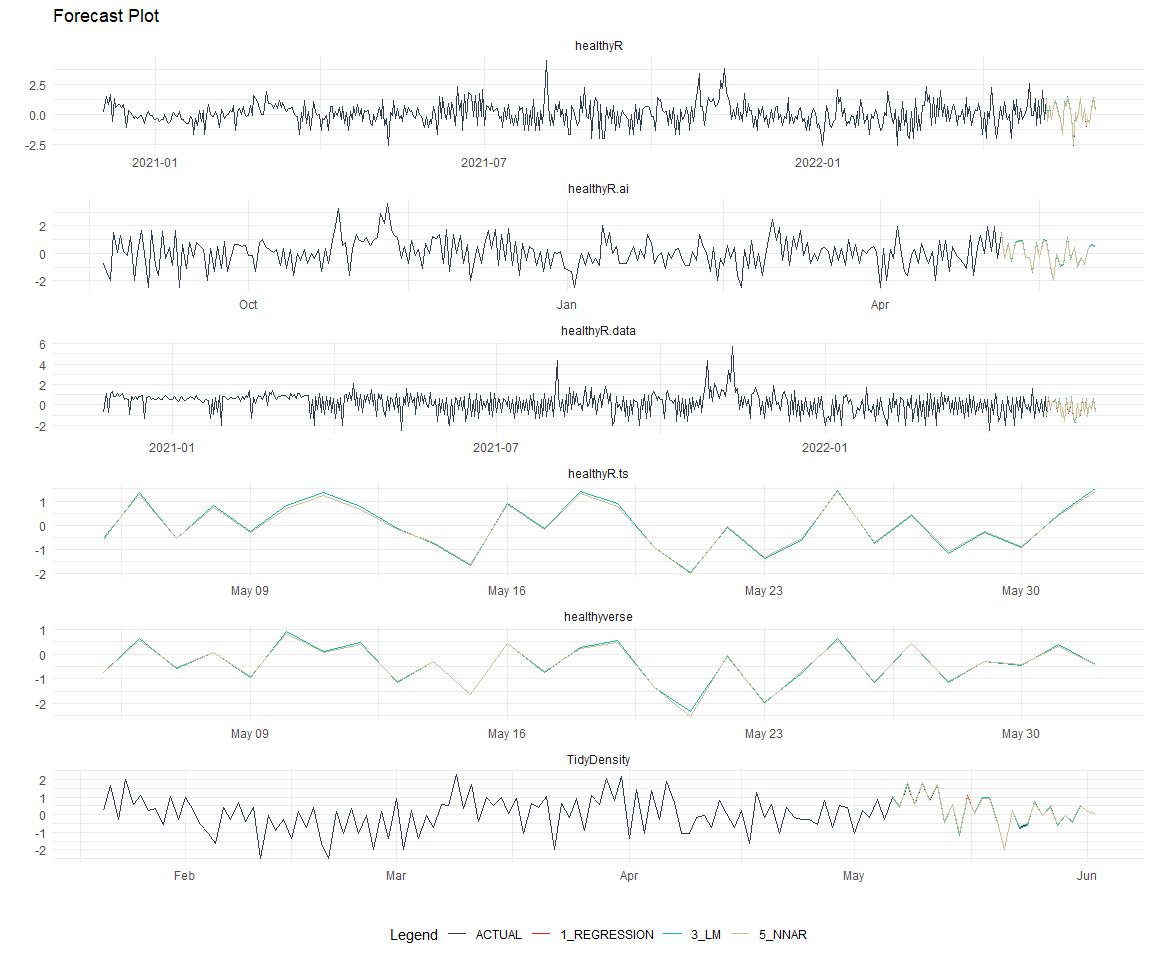
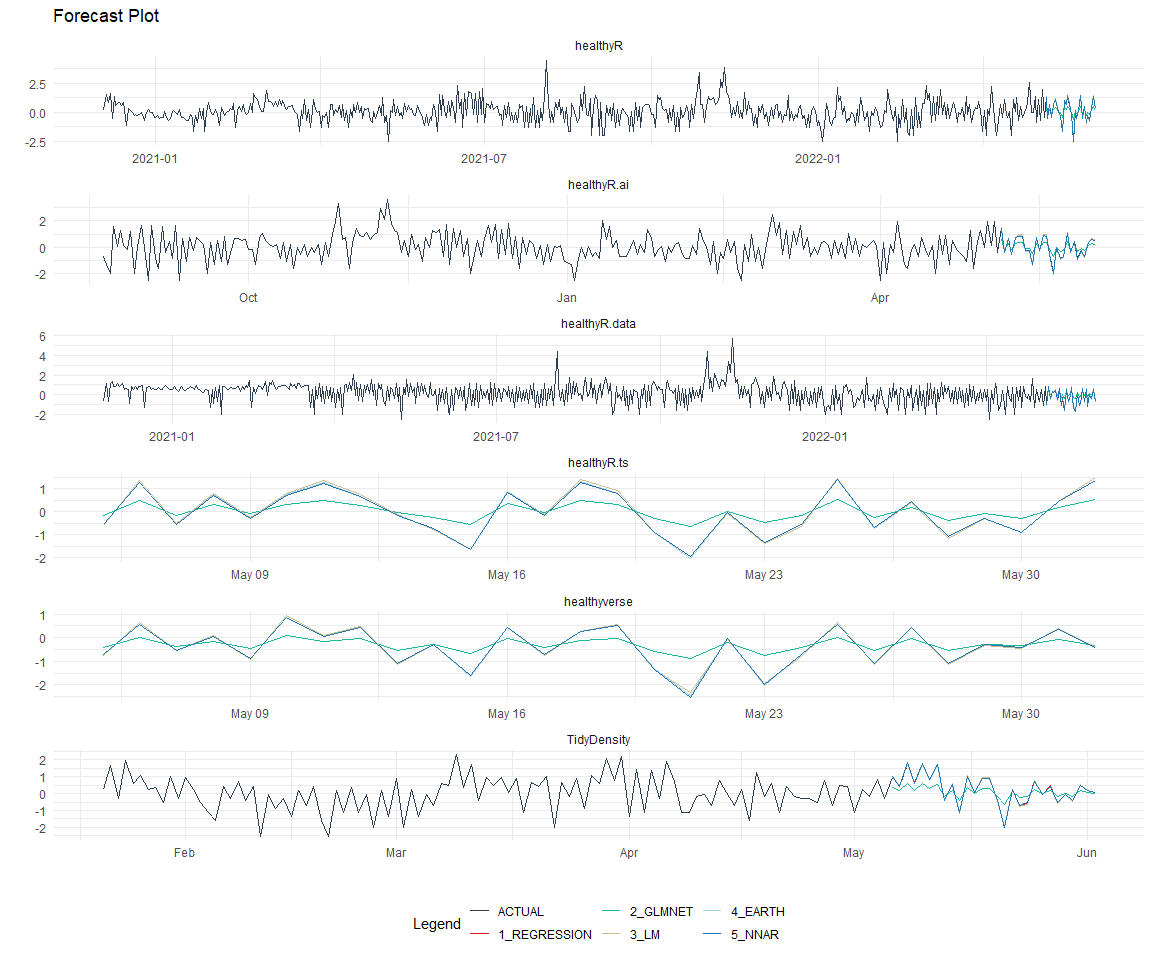
updates

diff --git a/README.md b/README.md
@@ -356,38 +356,38 @@ nested_modeltime_tbl %>%
   knitr::kable()
 ```
 
-| package       | .model_id | .model_desc | .type |       mae |       mape |      mase |      smape |      rmse |       rsq |
-|:--------------|----------:|:------------|:------|----------:|-----------:|----------:|-----------:|----------:|----------:|
-| healthyR.data |         1 | REGRESSION  | Test  | 0.0471557 | 16.2900424 | 0.0424045 | 13.0650504 | 0.0570245 | 0.9970087 |
-| healthyR.data |         2 | NULL        | NA    |        NA |         NA |        NA |         NA |        NA |        NA |
-| healthyR.data |         3 | LM          | Test  | 0.0435562 | 10.6744633 | 0.0391677 |  9.7761700 | 0.0556391 | 0.9973886 |
-| healthyR.data |         4 | NULL        | NA    |        NA |         NA |        NA |         NA |        NA |        NA |
-| healthyR.data |         5 | NNAR        | Test  | 0.0144578 |  2.5677399 | 0.0130011 |  2.5438944 | 0.0184775 | 0.9996775 |
-| healthyR      |         1 | REGRESSION  | Test  | 0.0497667 |  8.9217648 | 0.0450503 |  8.3876263 | 0.0664786 | 0.9960194 |
-| healthyR      |         2 | NULL        | NA    |        NA |         NA |        NA |         NA |        NA |        NA |
-| healthyR      |         3 | LM          | Test  | 0.0501606 |  9.0522675 | 0.0454069 |  8.4440508 | 0.0673185 | 0.9960281 |
-| healthyR      |         4 | NULL        | NA    |        NA |         NA |        NA |         NA |        NA |        NA |
-| healthyR      |         5 | NNAR        | Test  | 0.0085635 |  1.3017515 | 0.0077519 |  1.3149936 | 0.0184326 | 0.9996489 |
-| healthyR.ts   |         1 | NULL        | NA    |        NA |         NA |        NA |         NA |        NA |        NA |
-| healthyR.ts   |         2 | NULL        | NA    |        NA |         NA |        NA |         NA |        NA |        NA |
-| healthyR.ts   |         3 | LM          | Test  | 0.0548281 |  9.9704575 | 0.0450021 |  8.9456755 | 0.0672745 | 0.9982299 |
-| healthyR.ts   |         4 | NULL        | NA    |        NA |         NA |        NA |         NA |        NA |        NA |
-| healthyR.ts   |         5 | NNAR        | Test  | 0.0085366 |  1.3691247 | 0.0070067 |  1.3702229 | 0.0139282 | 0.9998057 |
-| healthyverse  |         1 | NULL        | NA    |        NA |         NA |        NA |         NA |        NA |        NA |
-| healthyverse  |         2 | NULL        | NA    |        NA |         NA |        NA |         NA |        NA |        NA |
-| healthyverse  |         3 | LM          | Test  | 0.0472110 | 13.5018951 | 0.0397961 | 11.4362927 | 0.0591325 | 0.9951277 |
-| healthyverse  |         4 | NULL        | NA    |        NA |         NA |        NA |         NA |        NA |        NA |
-| healthyverse  |         5 | NNAR        | Test  | 0.0026798 |  0.6842178 | 0.0022589 |  0.6874795 | 0.0036950 | 0.9999841 |
-| healthyR.ai   |         1 | REGRESSION  | Test  | 0.0485143 |  9.9557236 | 0.0511342 |  8.6953471 | 0.0554590 | 0.9984372 |
-| healthyR.ai   |         2 | NULL        | NA    |        NA |         NA |        NA |         NA |        NA |        NA |
-| healthyR.ai   |         3 | LM          | Test  | 0.0484587 |  9.4506469 | 0.0510756 |  8.3882124 | 0.0560587 | 0.9984356 |
-| healthyR.ai   |         4 | NULL        | NA    |        NA |         NA |        NA |         NA |        NA |        NA |
-| healthyR.ai   |         5 | NNAR        | Test  | 0.0042432 |  0.5658957 | 0.0044723 |  0.5663034 | 0.0065256 | 0.9999464 |
-| TidyDensity   |         1 | REGRESSION  | Test  | 0.0343754 |  8.3235183 | 0.0348410 |  7.8495316 | 0.0391932 | 0.9984327 |
-| TidyDensity   |         2 | NULL        | NA    |        NA |         NA |        NA |         NA |        NA |        NA |
-| TidyDensity   |         3 | LM          | Test  | 0.0340434 |  8.4598572 | 0.0345045 |  7.9316896 | 0.0388564 | 0.9984001 |
-| TidyDensity   |         4 | NULL        | NA    |        NA |         NA |        NA |         NA |        NA |        NA |
-| TidyDensity   |         5 | NNAR        | Test  | 0.0168482 |  4.7668350 | 0.0170765 |  4.8950517 | 0.0260286 | 0.9994047 |
+| package       | .model_id | .model_desc | .type |       mae |       mape |      mase |       smape |      rmse |       rsq |
+|:--------------|----------:|:------------|:------|----------:|-----------:|----------:|------------:|----------:|----------:|
+| healthyR.data |         1 | REGRESSION  | Test  | 0.0471557 | 16.2900424 | 0.0424045 |  13.0650504 | 0.0570245 | 0.9970087 |
+| healthyR.data |         2 | GLMNET      | Test  | 0.4743475 | 77.8916526 | 0.4265548 | 104.5323662 | 0.5866002 | 0.9992925 |
+| healthyR.data |         3 | LM          | Test  | 0.0435562 | 10.6744633 | 0.0391677 |   9.7761700 | 0.0556391 | 0.9973886 |
+| healthyR.data |         4 | EARTH       | Test  | 0.0248132 |  6.6144084 | 0.0223132 |   6.3299166 | 0.0305319 | 0.9992925 |
+| healthyR.data |         5 | NNAR        | Test  | 0.0145297 |  2.5852759 | 0.0130658 |   2.5431956 | 0.0186428 | 0.9996746 |
+| healthyR      |         1 | REGRESSION  | Test  | 0.0497667 |  8.9217648 | 0.0450503 |   8.3876263 | 0.0664786 | 0.9960194 |
+| healthyR      |         2 | GLMNET      | Test  | 0.5038965 | 64.5947757 | 0.4561427 |  99.3160123 | 0.6361921 | 0.9960321 |
+| healthyR      |         3 | LM          | Test  | 0.0501606 |  9.0522675 | 0.0454069 |   8.4440508 | 0.0673185 | 0.9960281 |
+| healthyR      |         4 | EARTH       | Test  | 0.0158974 |  2.7812723 | 0.0143908 |   2.7367538 | 0.0197259 | 0.9995523 |
+| healthyR      |         5 | NNAR        | Test  | 0.0097504 |  1.4310345 | 0.0088263 |   1.4217175 | 0.0161507 | 0.9997018 |
+| healthyR.ts   |         1 | NULL        | NA    |        NA |         NA |        NA |          NA |        NA |        NA |
+| healthyR.ts   |         2 | GLMNET      | Test  | 0.5210565 | 66.2999719 | 0.4276754 |  99.2436597 | 0.6038797 | 0.9989236 |
+| healthyR.ts   |         3 | LM          | Test  | 0.0548281 |  9.9704575 | 0.0450021 |   8.9456755 | 0.0672745 | 0.9982299 |
+| healthyR.ts   |         4 | EARTH       | Test  | 0.0145269 |  2.3334140 | 0.0119235 |   2.3076326 | 0.0169482 | 0.9997953 |
+| healthyR.ts   |         5 | NNAR        | Test  | 0.0086765 |  1.7336771 | 0.0071215 |   1.6950952 | 0.0109000 | 0.9998671 |
+| healthyverse  |         1 | NULL        | NA    |        NA |         NA |        NA |          NA |        NA |        NA |
+| healthyverse  |         2 | GLMNET      | Test  | 0.4652582 | 96.8887191 | 0.3921848 | 112.0372248 | 0.5845355 | 0.9944365 |
+| healthyverse  |         3 | LM          | Test  | 0.0472110 | 13.5018951 | 0.0397961 |  11.4362927 | 0.0591325 | 0.9951277 |
+| healthyverse  |         4 | EARTH       | Test  | 0.0098507 |  1.9820781 | 0.0083035 |   1.9626089 | 0.0155057 | 0.9996806 |
+| healthyverse  |         5 | NNAR        | Test  | 0.0033358 |  0.7540788 | 0.0028119 |   0.7499465 | 0.0042099 | 0.9999820 |
+| healthyR.ai   |         1 | REGRESSION  | Test  | 0.0485143 |  9.9557236 | 0.0511342 |   8.6953471 | 0.0554590 | 0.9984372 |
+| healthyR.ai   |         2 | GLMNET      | Test  | 0.4341400 | 63.5886526 | 0.4575844 |  93.2045553 | 0.5042932 | 0.9985463 |
+| healthyR.ai   |         3 | LM          | Test  | 0.0484587 |  9.4506469 | 0.0510756 |   8.3882124 | 0.0560587 | 0.9984356 |
+| healthyR.ai   |         4 | EARTH       | Test  | 0.0156214 |  2.5426196 | 0.0164650 |   2.5166213 | 0.0173886 | 0.9997316 |
+| healthyR.ai   |         5 | NNAR        | Test  | 0.0031202 |  0.5473487 | 0.0032887 |   0.5499291 | 0.0043349 | 0.9999731 |
+| TidyDensity   |         1 | REGRESSION  | Test  | 0.0343754 |  8.3235183 | 0.0348410 |   7.8495316 | 0.0391932 | 0.9984327 |
+| TidyDensity   |         2 | GLMNET      | Test  | 0.4541956 | 63.9685502 | 0.4603480 |  94.2478957 | 0.5761681 | 0.9983726 |
+| TidyDensity   |         3 | LM          | Test  | 0.0340434 |  8.4598572 | 0.0345045 |   7.9316896 | 0.0388564 | 0.9984001 |
+| TidyDensity   |         4 | EARTH       | Test  | 0.0086269 |  1.1151076 | 0.0087438 |   1.1105072 | 0.0136088 | 0.9998207 |
+| TidyDensity   |         5 | NNAR        | Test  | 0.0180448 |  4.6213029 | 0.0182893 |   5.1267440 | 0.0279191 | 0.9994882 |
 
 ### Plot Models
 
@@ -424,12 +424,12 @@ best_nested_modeltime_tbl %>%
     ##   # A tibble: 6 × 10
     ##   package  .model_id .model_desc .type     mae  mape    mase smape    rmse   rsq
     ##   <chr>        <int> <chr>       <chr>   <dbl> <dbl>   <dbl> <dbl>   <dbl> <dbl>
-    ## 1 healthy…         5 NNAR        Test  0.0145  2.57  0.0130  2.54  0.0185  1.00 
-    ## 2 healthyR         5 NNAR        Test  0.00856 1.30  0.00775 1.31  0.0184  1.00 
-    ## 3 healthy…         5 NNAR        Test  0.00854 1.37  0.00701 1.37  0.0139  1.00 
-    ## 4 healthy…         5 NNAR        Test  0.00268 0.684 0.00226 0.687 0.00369 1.00 
-    ## 5 healthy…         5 NNAR        Test  0.00424 0.566 0.00447 0.566 0.00653 1.00 
-    ## 6 TidyDen…         5 NNAR        Test  0.0168  4.77  0.0171  4.90  0.0260  0.999
+    ## 1 healthy…         5 NNAR        Test  0.0145  2.59  0.0131  2.54  0.0186   1.00
+    ## 2 healthyR         5 NNAR        Test  0.00975 1.43  0.00883 1.42  0.0162   1.00
+    ## 3 healthy…         5 NNAR        Test  0.00868 1.73  0.00712 1.70  0.0109   1.00
+    ## 4 healthy…         5 NNAR        Test  0.00334 0.754 0.00281 0.750 0.00421  1.00
+    ## 5 healthy…         5 NNAR        Test  0.00312 0.547 0.00329 0.550 0.00433  1.00
+    ## 6 TidyDen…         4 EARTH       Test  0.00863 1.12  0.00874 1.11  0.0136   1.00
 
 ``` r
 best_nested_modeltime_tbl %>%
